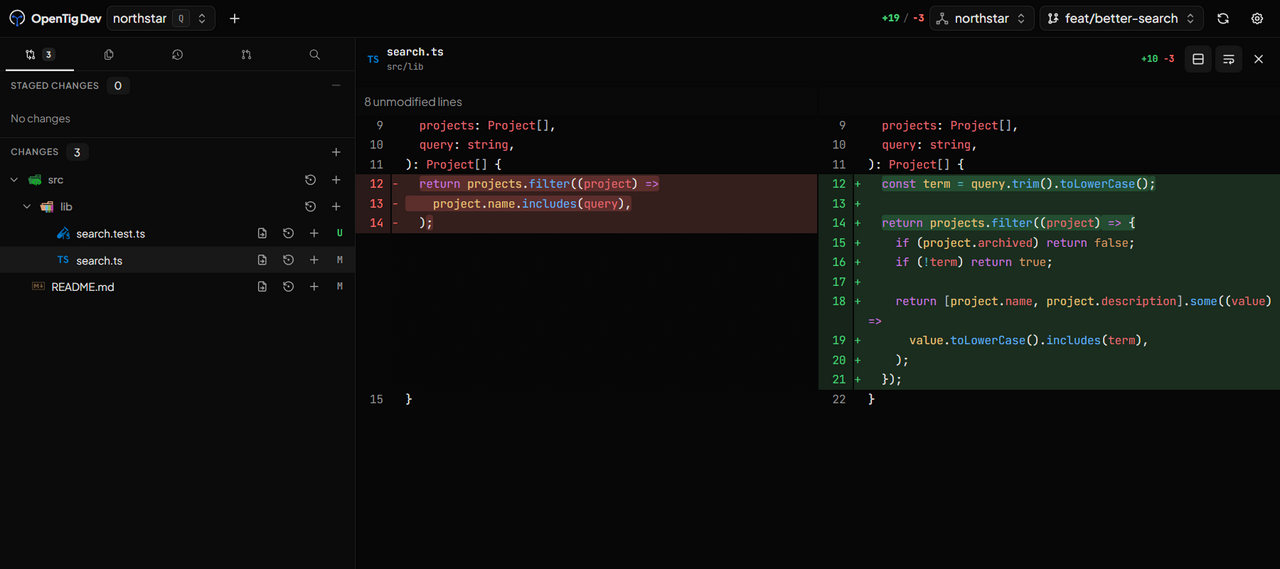
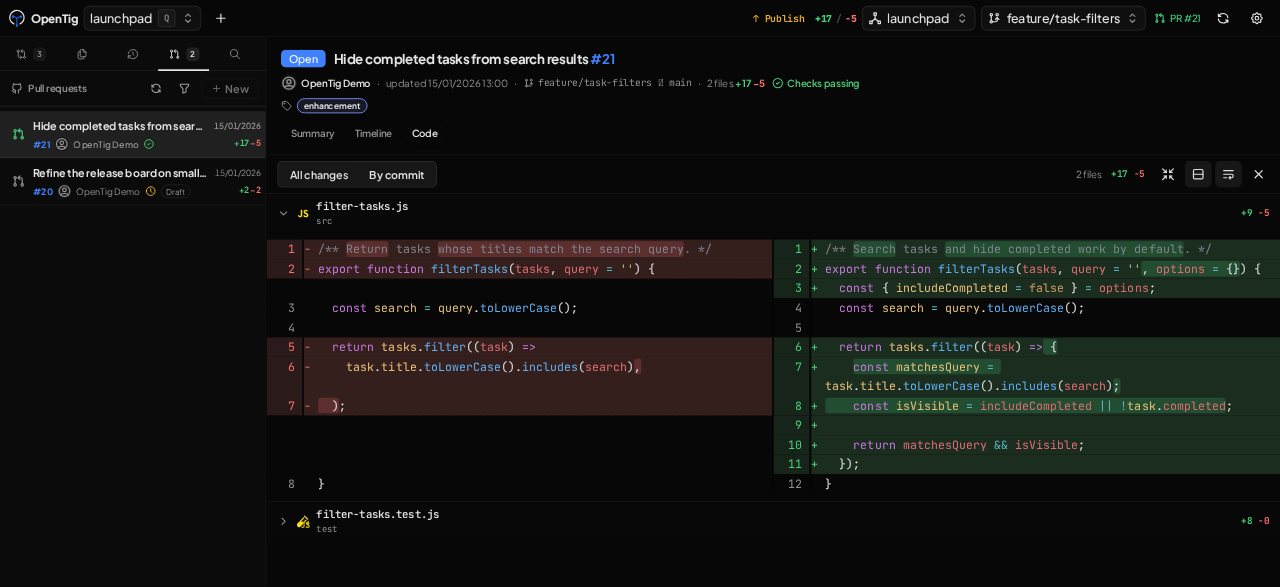
docs(website): refresh product screenshots with pull request review

diff --git a/website/design/social-card.html b/website/design/social-card.html
@@ -34,7 +34,7 @@
       h1 { margin: 20px 0 28px; font-size: 40px; line-height: 1.1; font-weight: 600; letter-spacing: -1.3px; }
       .workspace {
         display: block;
-        width: 1000px;
+        width: 980px;
         height: auto;
         margin: 0 auto;
         border: 1px solid #394960;
@@ -52,7 +52,7 @@
         <span class="domain">opentig.com</span>
       </header>
       <h1>A focused workspace for your Git repositories.</h1>
-      <img class="workspace" src="../../docs/images/workspace.png" width="1280" height="569" alt="OpenTig showing changed files and a side-by-side code diff" />
+      <img class="workspace" src="../../docs/images/workspace.png" width="1280" height="587" alt="OpenTig showing an open pull request and its side-by-side JavaScript diff in the Launchpad sample repository" />
     </main>
   </body>
 </html>

diff --git a/docs/website.md b/docs/website.md
@@ -219,7 +219,7 @@ Page titles, descriptions, canonical URLs, and Open Graph and Twitter card metad
 <details>
 <summary>Update the social image</summary>
 
-The editable card source is `website/design/social-card.html`, outside the published site. It combines the existing real product screenshot in `docs/images/workspace.png` with the local logo and Geist font. To update it, serve the repository root on loopback, open `/website/design/social-card.html` in a browser at exactly 1200 × 630 CSS pixels, wait for the font and images to load, and export the viewport as `website/public/opentig-social.png`. If the browser scales screenshots, normalize the exported PNG to 1200 × 630 pixels without cropping. Keep the screenshot faithful to the application and inspect the exported image before deployment. The existing `/og-image.png` remains available for previously cached previews.
+The editable card source is `website/design/social-card.html`, outside the published site. It combines the real product screenshot in `docs/images/workspace.png` with the local logo and Geist font. The screenshot uses normal OpenTig branding and the Launchpad sample repository in the interactive demo, with the GitHub pull-request list, an open PR, and its side-by-side diff visible. To update it, capture the demo at 1440 × 660 CSS pixels, then serve the repository root on loopback, open `/website/design/social-card.html` in a browser at exactly 1200 × 630 CSS pixels, wait for the font and images to load, and export the viewport as `website/public/opentig-social.png`. If the browser scales screenshots, normalize the exported PNG to 1200 × 630 pixels without cropping. Keep the screenshot faithful to the application and inspect the exported image before deployment. Source captures and temporary tooling stay untracked. The existing `/og-image.png` remains available for previously cached previews.
 
 </details>
 

diff --git a/README.md b/README.md
@@ -10,9 +10,9 @@ Browse files, inspect diffs, edit, stage, and commit on your computer or a remot
 
 </div>
 
-![OpenTig reviewing a TypeScript split diff in a demo repository](docs/images/workspace.png)
+![OpenTig reviewing an open pull request and its side-by-side JavaScript diff in the Launchpad sample repository](docs/images/workspace.png)
 
-*The browser UI in the Dev build, reviewing a small demo repository.*
+*OpenTig reviewing a sample pull request in the interactive demo.*
 
 > [!IMPORTANT]
 > **Early development.** I'm building OpenTig for my own daily workflow and sharing it as it takes shape. Expect bugs, rough edges, and changes. Keep important work backed up and review Git and file operations before confirming them.
